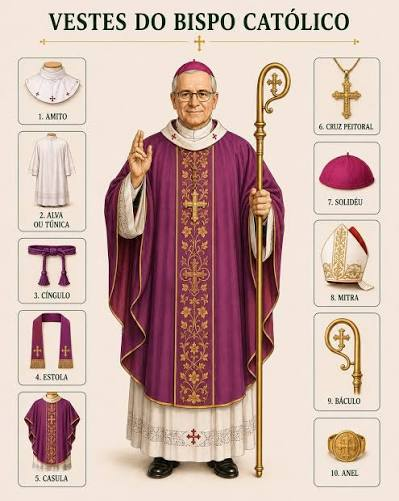
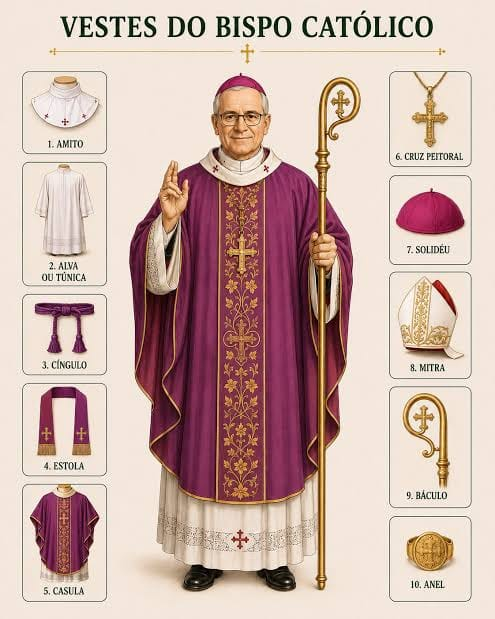
gchvj
segv

diff --git a/index.html b/index.html
@@ -766,22 +766,22 @@
             <!-- ESPAÇOS RESERVADOS PARA FOTOS DE OBJETOS -->
             <div class="photo-grid">
                 <div class="photo-slot" data-caption="Conjunto do Cálice: Cálice, Patena, Corporal, Pala e Sanguíneo">
-                    <span class="placeholder-icon">🖼</span>
+                    <img src="assets/calice.jpeg"/>
                     <span class="placeholder-text">Foto: Cálice e Alfaias</span>
                     <span class="placeholder-hint">Toque para expandir</span>
                 </div>
                 <div class="photo-slot" data-caption="Turíbulo e Naveta (utilizados nas incensações)">
-                    <span class="placeholder-icon">🖼</span>
+                    <img src="assets/turibulo.jpeg"/>
                     <span class="placeholder-text">Foto: Turíbulo e Naveta</span>
                     <span class="placeholder-hint">Toque para expandir</span>
                 </div>
                 <div class="photo-slot" data-caption="Ostensório/Custódia, Âmbula e Teca">
-                    <span class="placeholder-icon">🖼</span>
+                    <img src="assets/ostensorio.jpeg"/>
                     <span class="placeholder-text">Foto: Ostensório e Âmbula</span>
                     <span class="placeholder-hint">Toque para expandir</span>
                 </div>
                 <div class="photo-slot" data-caption="Galhetas, Lavabo, Manustérgio e Sineta">
-                    <span class="placeholder-icon">🖼</span>
+                    <img src="assets/sineta.jpeg"/>
                     <span class="placeholder-text">Foto: Galhetas, Lavabo e Sineta</span>
                     <span class="placeholder-hint">Toque para expandir</span>
                 </div>
@@ -806,6 +806,7 @@
                 <li><strong><a href="https://images.tcdn.com.br/img/img_prod/1139701/180_cruz_processional_21_1_0b2f9b0575857c4fb64ebe6cf83de5e7.jpg">Cruz processional:</a></strong> Crucifixo em uma haste extensa, usada na procissão de entrada/saída.</li>
                 <li><strong><a href="https://encrypted-tbn0.gstatic.com/images?q=tbn:ANd9GcRieKRLXjYX2ZrvRPdzvc4RxSsqAvPEsuYUR5T-yRWw8YhGwC6uk5qhoQ8&s=10">Missal:</a></strong> Contém todo o rito da Missa, sendo usado pelo celebrante, mais notavelmente, na Liturgia Eucarística.</li>
                 <li><strong><a href="https://editorapaulus.vtexassets.com/arquivos/ids/163068/kit-lecionario.png?v=638594231125570000">Lecionários:</a></strong> Contém as leituras, salmo e Evangelho da Missa que é celebrada no dia. Existem 3: Dominical, Semanal e Santoral.</li>
+                <li><strong><a href="https://encrypted-tbn0.gstatic.com/images?q=tbn:ANd9GcTsQj2Q3HpEZxMJBNPDi88voAHxeIMGEWAFkCKmL1kCwg&s=10">Evangeliário:</a></strong> Reúne os trechos dos quatro Evangelhos para proclamação nas celebrações, sobretudo aos domingos, festas e solenidades. Seu uso é mais comum em catedrais.</li>
                 <li><strong><a href="https://editorapaulus.vtexassets.com/arquivos/ids/159486/ritual-de-bencaos.png?v=637909213606200000">Livros de bênçãos:</a></strong> Esses são usados mais pelo padre, mas ainda é importante conhecê-los. Existem livros para bênçãos diversas, casamentos, crisma, etc.</li>
                 <li><strong><a href="https://www.pantokrator.org.br/wp-content/uploads/2023/04/Ari_SITE-IMAGENS-500-%C3%97-500-px-2023-04-12T141030.009.jpg">Círio Pascal:</a></strong> Usado desde a Vigília Pascal até Pentecostes. Representa a luz de Cristo em sua ressurreição.</li>
                 <li><strong><a href="https://images.tcdn.com.br/img/img_prod/280297/acendedor_e_apagador_de_vela_100cm_2_20250818100910_1bcc4a413a7a.png">Acendedor do Círio:</a></strong> Usado para acender o Círio Pascal. Não é exatamente um objeto litúrgico.</li>
@@ -826,17 +827,17 @@
             <!-- ESPAÇOS RESERVADOS PARA FOTOS DE VESTES -->
             <div class="photo-grid">
                 <div class="photo-slot" data-caption="Vestes do Padre: Alva, Cíngulo, Estola e Casula">
-                    <span class="placeholder-icon">🖼</span>
+                    <img src="assets/padre.jpeg"/>
                     <span class="placeholder-text">Foto: Vestes do Padre</span>
                     <span class="placeholder-hint">Toque para expandir</span>
                 </div>
                 <div class="photo-slot" data-caption="Insígnias e Vestes do Bispo: Mitra, Báculo, Solidéu e Cruz Peitoral">
-                    <span class="placeholder-icon">🖼</span>
+                    <img src="assets/bispo.jpeg"/>
                     <span class="placeholder-text">Foto: Vestes do Bispo</span>
                     <span class="placeholder-hint">Toque para expandir</span>
                 </div>
                 <div class="photo-slot" data-caption="Vestes dos Acólitos e Coroinhas da Paróquia Santa Cruz">
-                    <span class="placeholder-icon">🖼</span>
+                    <img src="assets/vestesacolitos.jpeg"/>
                     <span class="placeholder-text">Foto: Vestes dos Acólitos/Coroinhas</span>
                     <span class="placeholder-hint">Toque para expandir</span>
                 </div>
@@ -891,12 +892,12 @@
             <h3>2.6 Partes da Igreja</h3>
             <div class="photo-grid">
                 <div class="photo-slot" data-caption="Presbitério, Altar e Ambão da Paróquia Santa Cruz">
-                    <span class="placeholder-icon">🖼</span>
+                    <img src="assets/presbiterio.jpeg"/>
                     <span class="placeholder-text">Foto: Presbitério, Altar e Ambão</span>
                     <span class="placeholder-hint">Toque para expandir</span>
                 </div>
                 <div class="photo-slot" data-caption="Capela do Santíssimo, Sacrário e Credência">
-                    <span class="placeholder-icon">🖼</span>
+                    <img src="assets/sacrario.jpeg"/>
                     <span class="placeholder-text">Foto: Sacrário e Credência</span>
                     <span class="placeholder-hint">Toque para expandir</span>
                 </div>
@@ -918,12 +919,12 @@
 
             <div class="photo-grid">
                 <div class="photo-slot" data-caption="Postura correta: Mãos postas em oração">
-                    <span class="placeholder-icon">🖼</span>
+                    <img src="assets/maosjuntas.jpeg"/>
                     <span class="placeholder-text">Foto: Mãos Postas</span>
                     <span class="placeholder-hint">Toque para expandir</span>
                 </div>
                 <div class="photo-slot" data-caption="Reverências: Inclinação Profunda e Genuflexão">
-                    <span class="placeholder-icon">🖼</span>
+                    <img src="assets/genuflexao.jpeg"/>
                     <span class="placeholder-text">Foto: Inclinação e Genuflexão</span>
                     <span class="placeholder-hint">Toque para expandir</span>
                 </div>
@@ -987,11 +988,14 @@
                 <li><strong>Imitação de Cristo:</strong> Ainda que antigo, apresenta conhecimentos atemporais para a santificação do indivíduo, com ensinamentos valiosos;</li>
                 <li><strong>IGMR (Instrução Geral do Missal Romano):</strong> Muito técnico, mas um complemento excelente para aqueles que querem conhecer melhor a Liturgia e já conhecem o Missal.</li>
             </ul>
+
+            <h3>3.5 Orações Eucarísticas</h3>
+            <p>Conhecer as Orações Eucarísticas e suas peculiaridades nos ajuda a conhecer o rito da Missa e a servir melhor ao Altar. <a href="https://cindyferrarezi.com/2023/11/18/novas-oracoes-eucaristicas-nova-edicao-missal-2023/">Aqui</a>, você pode acessar todas as Orações Eucarísticas para um estudo mais aprofundado, retiradas diretamente do Missal Romano.</p>
         </section>
 
         <!-- 3.5 CONTATOS -->
         <section id="contatos">
-            <h2>3.5 Contatos</h2>
+            <h2>3.6 Contatos</h2>
             <p>Em caso de dúvidas, trocas na escala ou informações sobre a pastoral, entre em contato pelos canais abaixo:</p>
 
             <div class="contact-grid">
